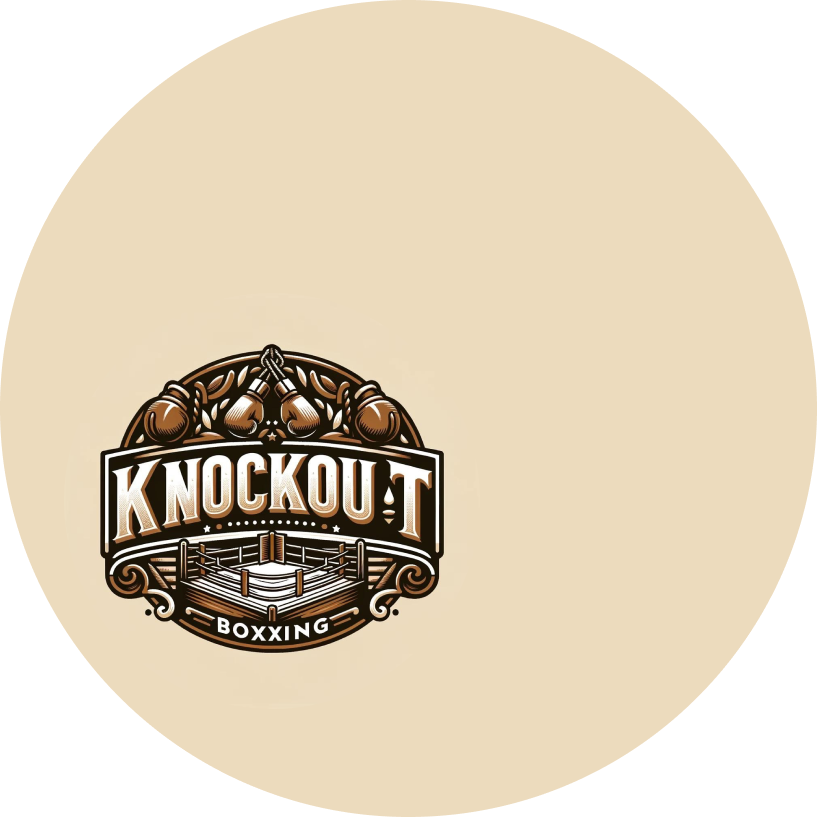
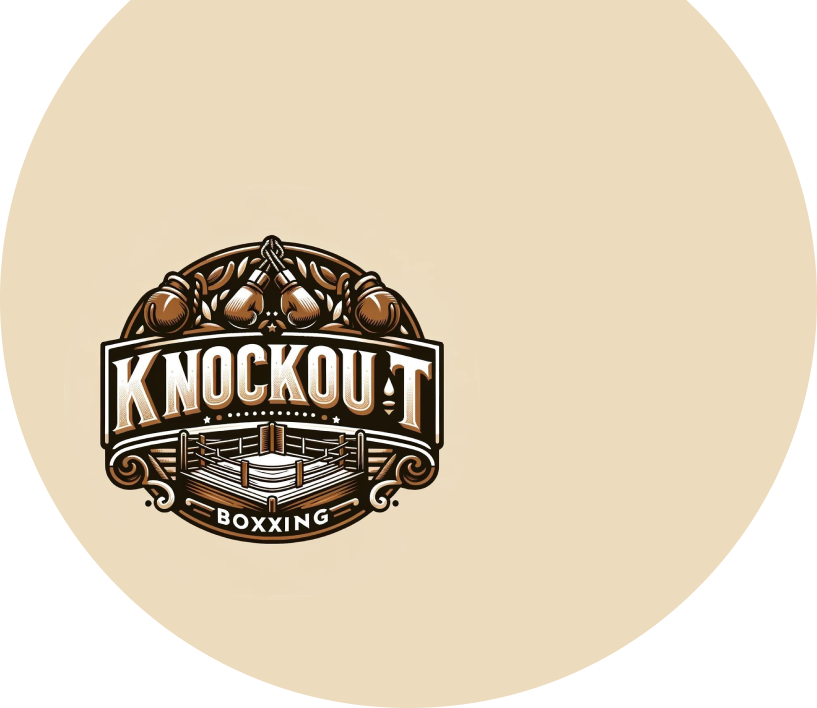
adjusted header again

diff --git a/index.html b/index.html
@@ -33,17 +33,17 @@
     </div>
     <!-- Unleash Your Inner Fighter Section -->
     <div class="flex justify-center lg:items-center">
-      <div class="lg:flex">
+      <div class="lg:flex xl:mb-20">
         <div
-          class="flex flex-col justify-center pt-16 items-center text-center tracking-wide lg:pt-64 lg:justify-start lg:items-start lg:ml-[88px] max-w-[560px]"
+          class="flex flex-col justify-center pt-16 items-center text-center tracking-wide lg:pt-64 lg:justify-start lg:items-start lg:ml-[88px] xl:ml-0 max-w-[560px]"
         >
           <h2
-            class="font-Pridi font-semibold  text-[2.3rem] leading-[2.6rem] text-knockout-brown max-w-2xl lg:text-[3.5rem] lg:leading-[3.5rem] lg:text-start"
+            class="font-Pridi font-semibold  text-[2.3rem] leading-[2.6rem] text-knockout-brown lg:text-[3.5rem] lg:leading-[3.5rem] lg:text-start xl:text-[64px] xl:mb-3"
           >
             Unleash your inner fighter and conquer the ring
           </h2>
           <p
-            class="pt-4 leading-[1.35rem] font-normal text-knockout-medium-dark-brown max-w-2xl lg:text-left"
+            class="pt-4 leading-[1.35rem] font-normal text-knockout-medium-dark-brown lg:text-left xl:text-[20px] max-w-[560px] font-QuattrocentoSans"
           >
             <span class="font-bold">Welcome to Knockout Boxing!</span>
             We provide top-notch training, world-class equipment, and a supportive
@@ -55,8 +55,11 @@
             Join now
           </button>
         </div>
-        <div class=" w-[384px]">
-          <img src="./public/images/hero-circle-medium.png" class="pl-0 hidden absolute lg:block float-right z-1 min-w-[686px] pr-10">
+        <div class="hidden lg:block w-[384px] xl:hidden">
+          <img src="./public/images/hero-circle-medium.png" class="pl-0  absolute lg:block float-right z-1 min-w-[686px] pr-10">
+        </div>
+        <div class="hidden w-[584px] xl:block">
+          <img src="./public/images/hero-circle.png" class="pl-0 hidden absolute lg:block float-right z-1 min-w-[686px] pr-10">
         </div>
       </div>
     </div>
@@ -108,7 +111,7 @@
             </p>
           </div>
         </div>
-        <div class="flex flex-row mb-2 md:pt-2">
+        <div class="flex flex-row mb-2 lg:pt-2">
           <div
             class="w-40 h-40 xl:h-52 xl:w-52 flex mx-1 xl:mx-3 items-center justify-center rounded-md bg-[url('/public/images/weights.png')] bg-contain"
           >
@@ -266,8 +269,6 @@
       </div>
     </div>
   </div>
-
-      
 
     <!-- What Others Have To Say Section -->
     <div class="flex flex-col justify-center items-center mt-[120px] px-7">
